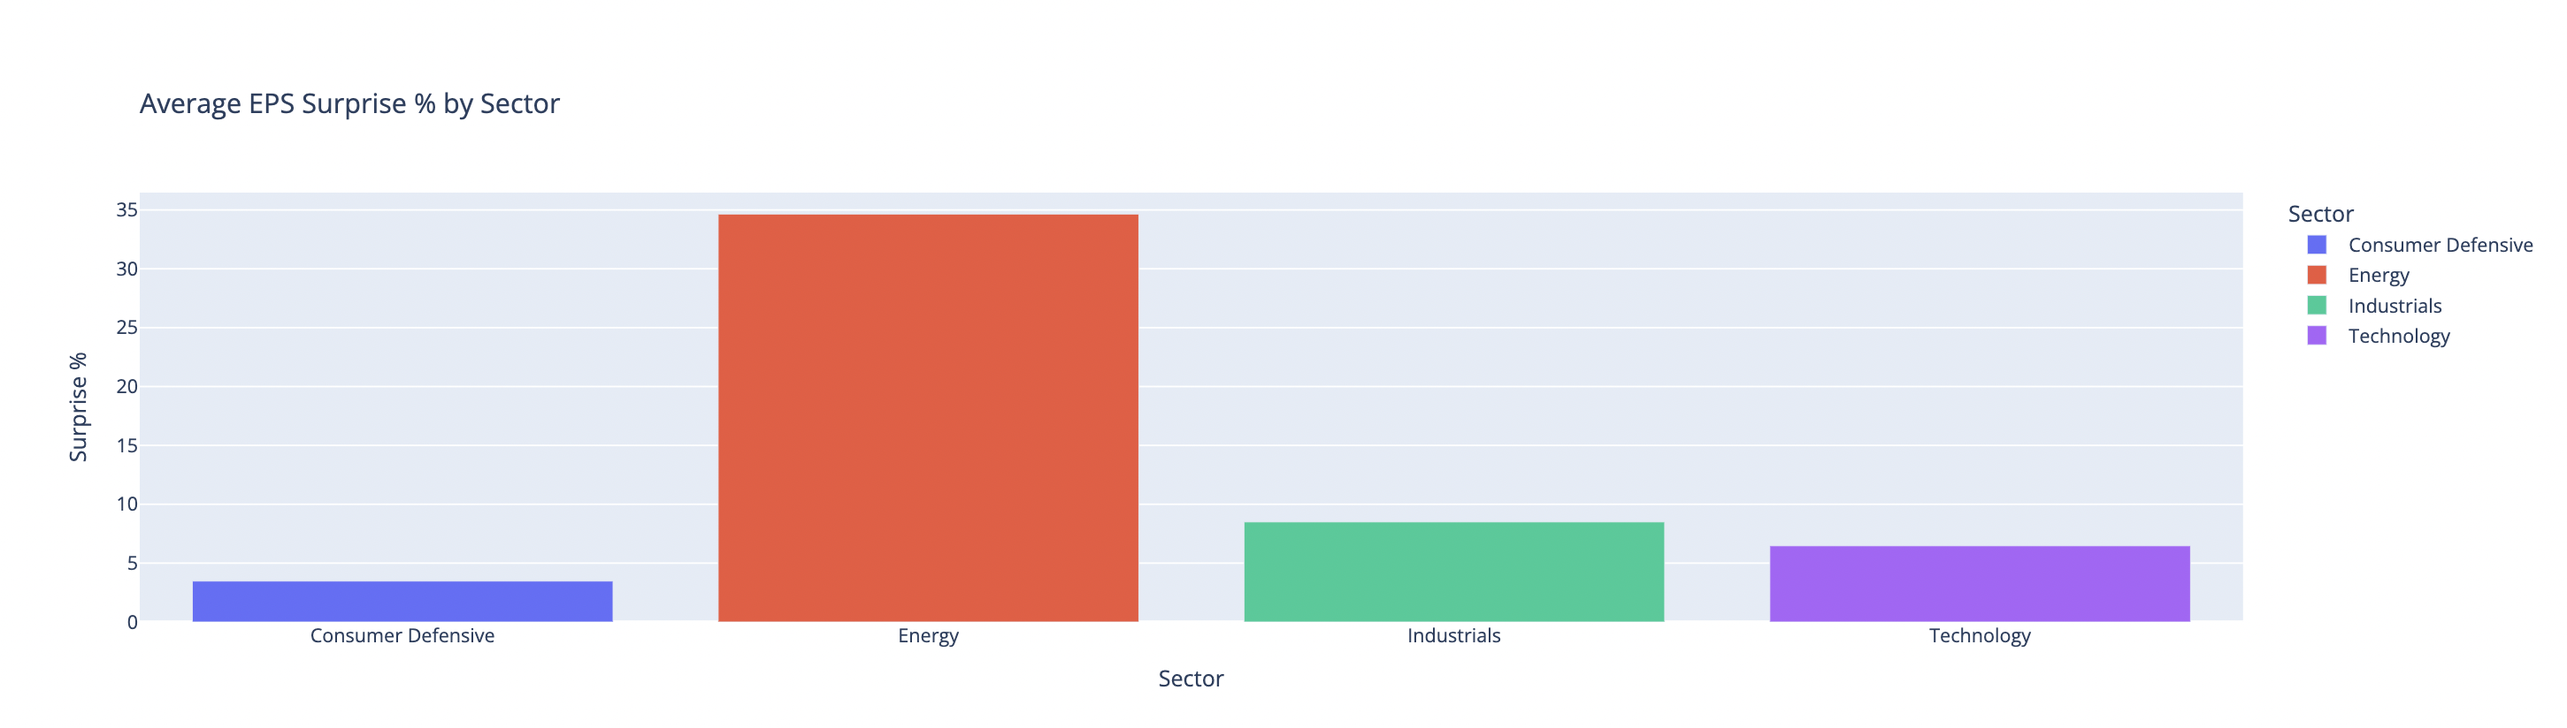
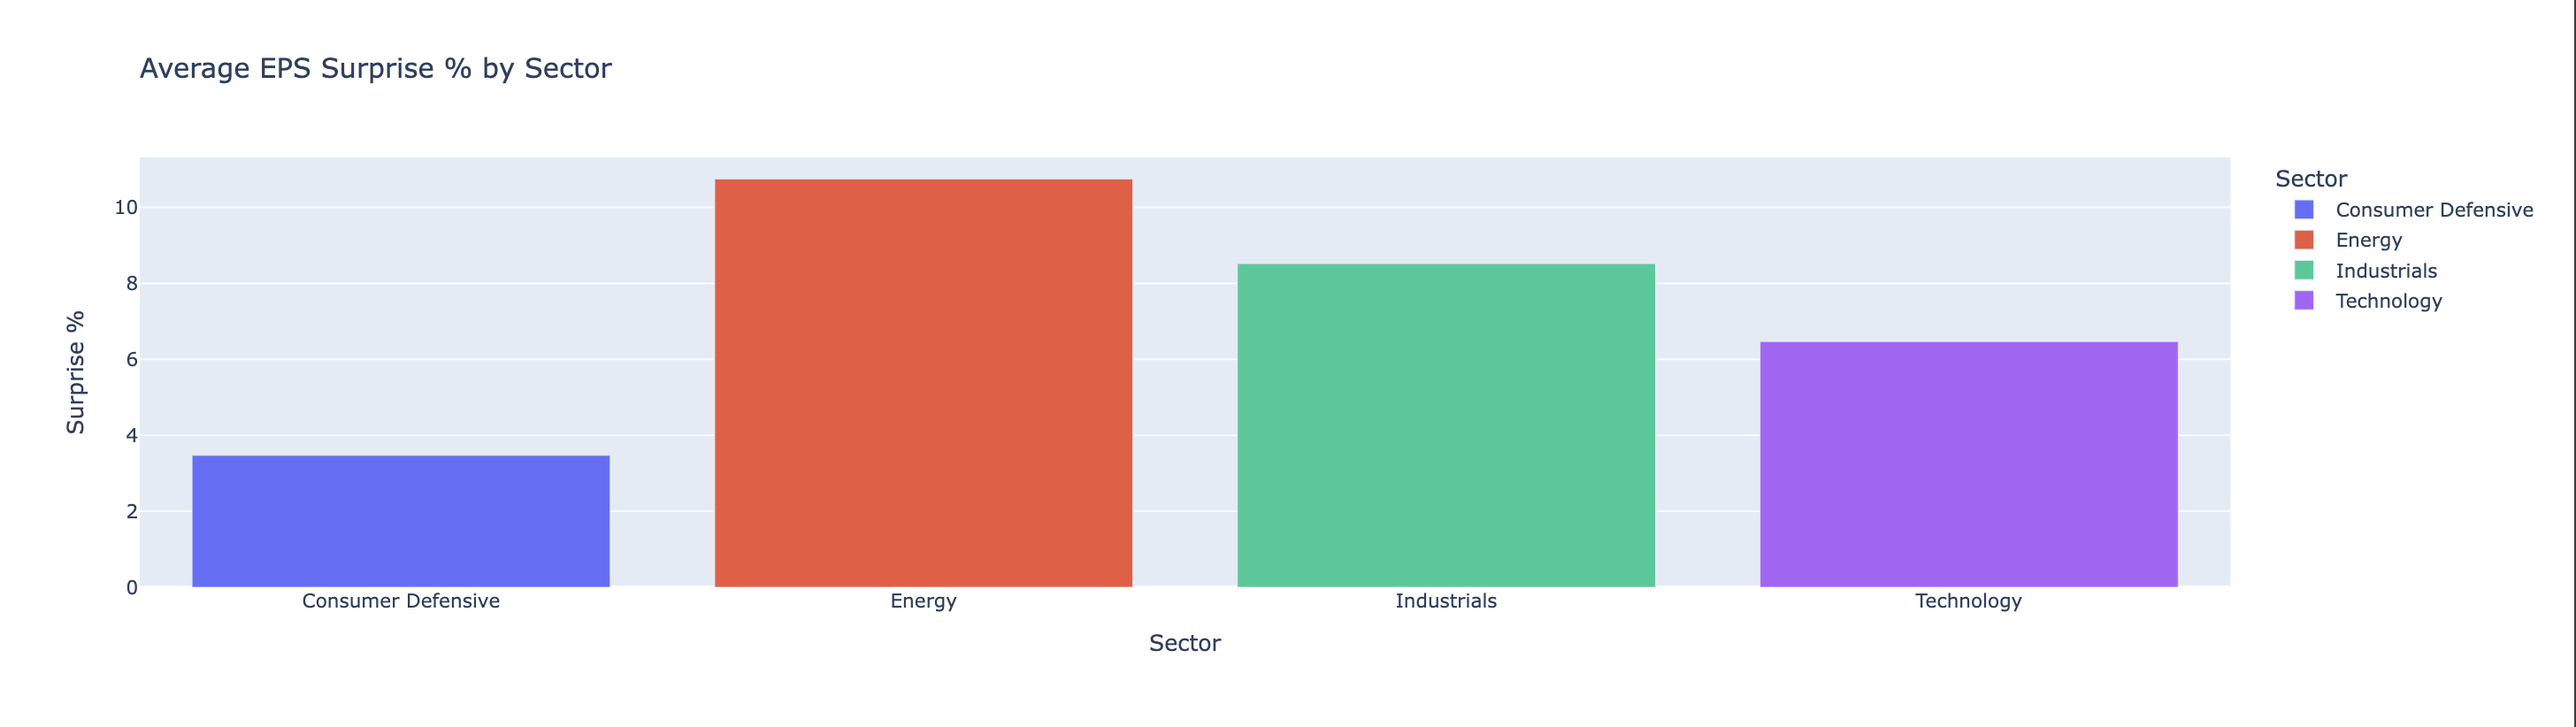
Fix earnings surprise % calc, add BMO/AMC price windowing, filter outliers, editing comments

diff --git a/price_reaction.py b/price_reaction.py
@@ -1,13 +1,21 @@
 '''
-Stock Earnings Dashboard - Price Reaction Analysis
-Calculates the price move around earnings
+Stock Earnings Dashboard — Price Reaction Analysis
+
+Pairs each earnings date from earnings.py with its pre and post-earnings
+trading days from data_pull.py, calculating the resulting price move
+("Price Reaction %") for comparison against EPS Surprise %.
 '''
 
 import yfinance as yf
 import pandas as pd
 from data_pull import STOCKS, get_stock_info
 from earnings import get_earnings_data
+'''
+Get price reaction data (how much a stock moved, pre and post-earnings trading days) in a dataframe
 
+param ticker: stock ticker symbol (e.g. AAPL, MSFT, etc.)
+return: price reaction data (pre and post-earnings trading days, price reaction %, EPS surprise %)
+'''
 def get_price_reaction(ticker):
     results = []
     stock = yf.Ticker(ticker)
@@ -18,10 +26,18 @@ def get_price_reaction(ticker):
     for date in earnings.index:
         idx = hist.index.searchsorted(date)
         if idx == 0 or idx >= len(hist):
-            continue  # Skip if earnings date is out of historical data range
-        day_before = hist.iloc[idx - 1]
-        day_after = hist.iloc[idx]
+            continue # skip if earnings date is outside of historical data range
+        if date.hour >= 12:  # AMC: reported after market close
+            day_before = hist.iloc[idx - 1]
+            day_after = hist.iloc[idx]
+        else:  # BMO: reported before market open
+            if idx - 2 < 0:
+                continue
+            day_before = hist.iloc[idx - 2]
+            day_after = hist.iloc[idx - 1]
+
         pct_change = (day_after['Close'] - day_before['Close']) / day_before['Close'] * 100
+
         results.append({
             "Ticker": ticker,
             "Earnings Date": date,
@@ -30,5 +46,7 @@ def get_price_reaction(ticker):
         })
     return pd.DataFrame(results)
 
-# Test to make sure get_price_reaction works
-#print(get_price_reaction("AAPL"))
+# Test to make sure get_price_reaction returns correctly formatted dataframe
+print(get_price_reaction("AAPL"))
+
+

diff --git a/earnings.py b/earnings.py
@@ -7,16 +7,26 @@ import yfinance as yf
 import pandas as pd
 from data_pull import STOCKS
 
+
+'''
+Get earnings data (earnings dates, EPS estimates vs actuals) in a dataframe
+
+param ticker: stock ticker symbol (e.g. AAPL, MSFT, etc.)
+return: earnings data (earnings dates, EPS estimates vs actuals, surprise %)
+'''
 def get_earnings_data(ticker):
     stock = yf.Ticker(ticker)
+    # Get stock info (open, close, dates, etc.) in a dataframe 
     earnings = stock.earnings_dates
-    earnings = earnings.dropna(subset = ['EPS Estimate', 'Reported EPS'])
-
-    # Calculate surprise percentage for more accurate depiction of earnings performance 
+    earnings = earnings.dropna(subset=['EPS Estimate', 'Reported EPS'])
     earnings = earnings.copy()
-    earnings['surprise_pct'] = (earnings['Reported EPS'] - earnings['EPS Estimate']) / earnings['EPS Estimate'] * 100
+    # Drop unstable denominators to avoid skewed surprise % calculations
+    earnings = earnings[earnings['EPS Estimate'].abs() > 0.10]
+
+    # Use abs() in denominator to avoid sign-flip and calculate surprise % 
+    earnings['surprise_pct'] = (earnings['Reported EPS'] - earnings['EPS Estimate']) / earnings['EPS Estimate'].abs() * 100
     earnings['Ticker'] = ticker
     return earnings
 
 # get_earnings_data function test case
-#print(get_earnings_data("AAPL"))
+# print(get_earnings_data("VLO"))

diff --git a/data_pull.py b/data_pull.py
@@ -4,7 +4,6 @@ Pulls 2 years of historical data for 20 stocks across 4 sectors using yfinance A
 Used as data foundation for earnings analysis and dashboard visualizations.
 '''
 
-from distro import info
 import yfinance as yf
 import pandas as pd
 
@@ -15,7 +14,12 @@ STOCKS  = {
     "Consumer Defensive": ["WMT", "PG", "KO", "COST", "MDLZ"]
 }
 
+'''
+Get stock info (open, close, dates, etc.) in a dataframe
 
+param ticker: stock ticker symbol (e.g. AAPL, MSFT, etc.)
+return: historical stock data (2 years) and stock info (company name, sector, etc.)
+'''
 def get_stock_info(ticker):
     stock = yf.Ticker(ticker)
     hist = stock.history(period="2y")
@@ -23,8 +27,8 @@ def get_stock_info(ticker):
     return hist, info
 
 # Test to make sure get_stock_info works
-#hist, info = get_stock_info("AAPL")
-#print(f"Company: {info.get('longName')}")
-#print(f"Sector:  {info.get('sector')}")
-#print(f"Rows:    {len(hist)}")
-#print(hist.head())
+hist, info = get_stock_info("AAPL")
+# print(f"Company: {info.get('longName')}")
+# print(f"Sector:  {info.get('sector')}")
+# print(f"Rows:    {len(hist)}")
+# print(hist.head())

diff --git a/app.py b/app.py
@@ -1,6 +1,9 @@
 '''
-Stocks Earnings Dashboard - Main Application
-Interactive Plotly Dash dashboard displaying earnings surprise % vs stock price reaction
+Stock Earnings Dashboard — Main Application
+
+Combines earnings-surprise and price-reaction data for all 20 tickers
+across 4 sectors, then serves an interactive Plotly Dash dashboard
+showing the correlation between EPS Surprise % and Price Reaction %.
 '''
 
 import dash
